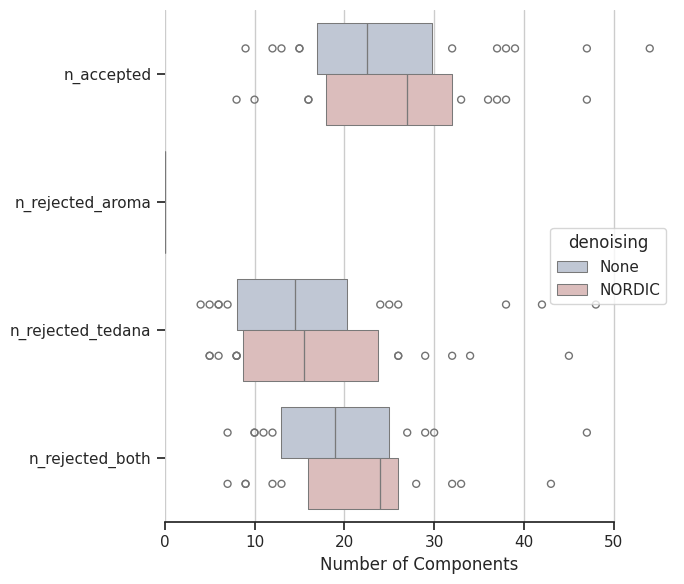
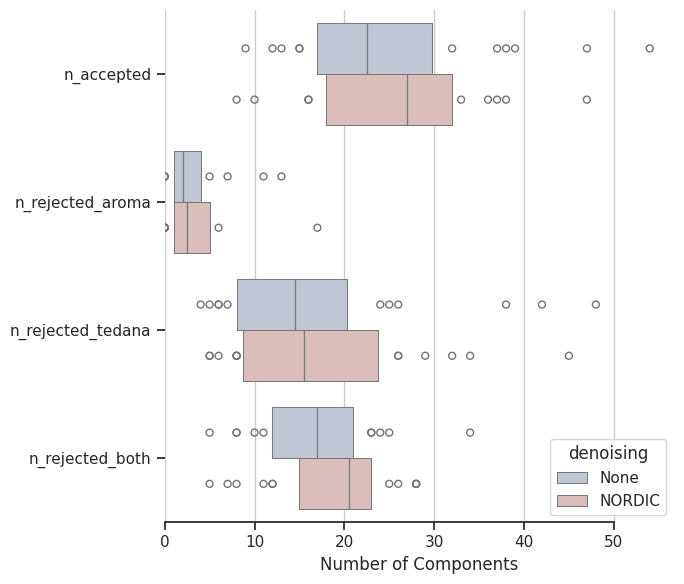
Fix classification plots.

diff --git a/analysis/compare_tedana_aroma.py b/analysis/compare_tedana_aroma.py
@@ -41,16 +41,16 @@ if __name__ == "__main__":
 
         rejected_df = df.loc[df["classification"] == "rejected"]
         rejected_both_df = rejected_df.loc[
-            rejected_df["classification_tags"].str.contains("TEDANA")
+            rejected_df["classification_tags"].str.contains("TEDANA Unlikely")
             & rejected_df["classification_tags"].str.contains("AROMA")
         ]
         rejected_aroma_df = rejected_df.loc[
             rejected_df["classification_tags"].str.contains("AROMA")
-            & ~rejected_df["classification_tags"].str.contains("TEDANA")
+            & ~rejected_df["classification_tags"].str.contains("TEDANA Unlikely")
         ]
         rejected_tedana_df = rejected_df.loc[
             ~rejected_df["classification_tags"].str.contains("AROMA")
-            & rejected_df["classification_tags"].str.contains("TEDANA")
+            & rejected_df["classification_tags"].str.contains("TEDANA Unlikely")
         ]
 
         file_dict["n_rejected_both"] = rejected_both_df.shape[0]
